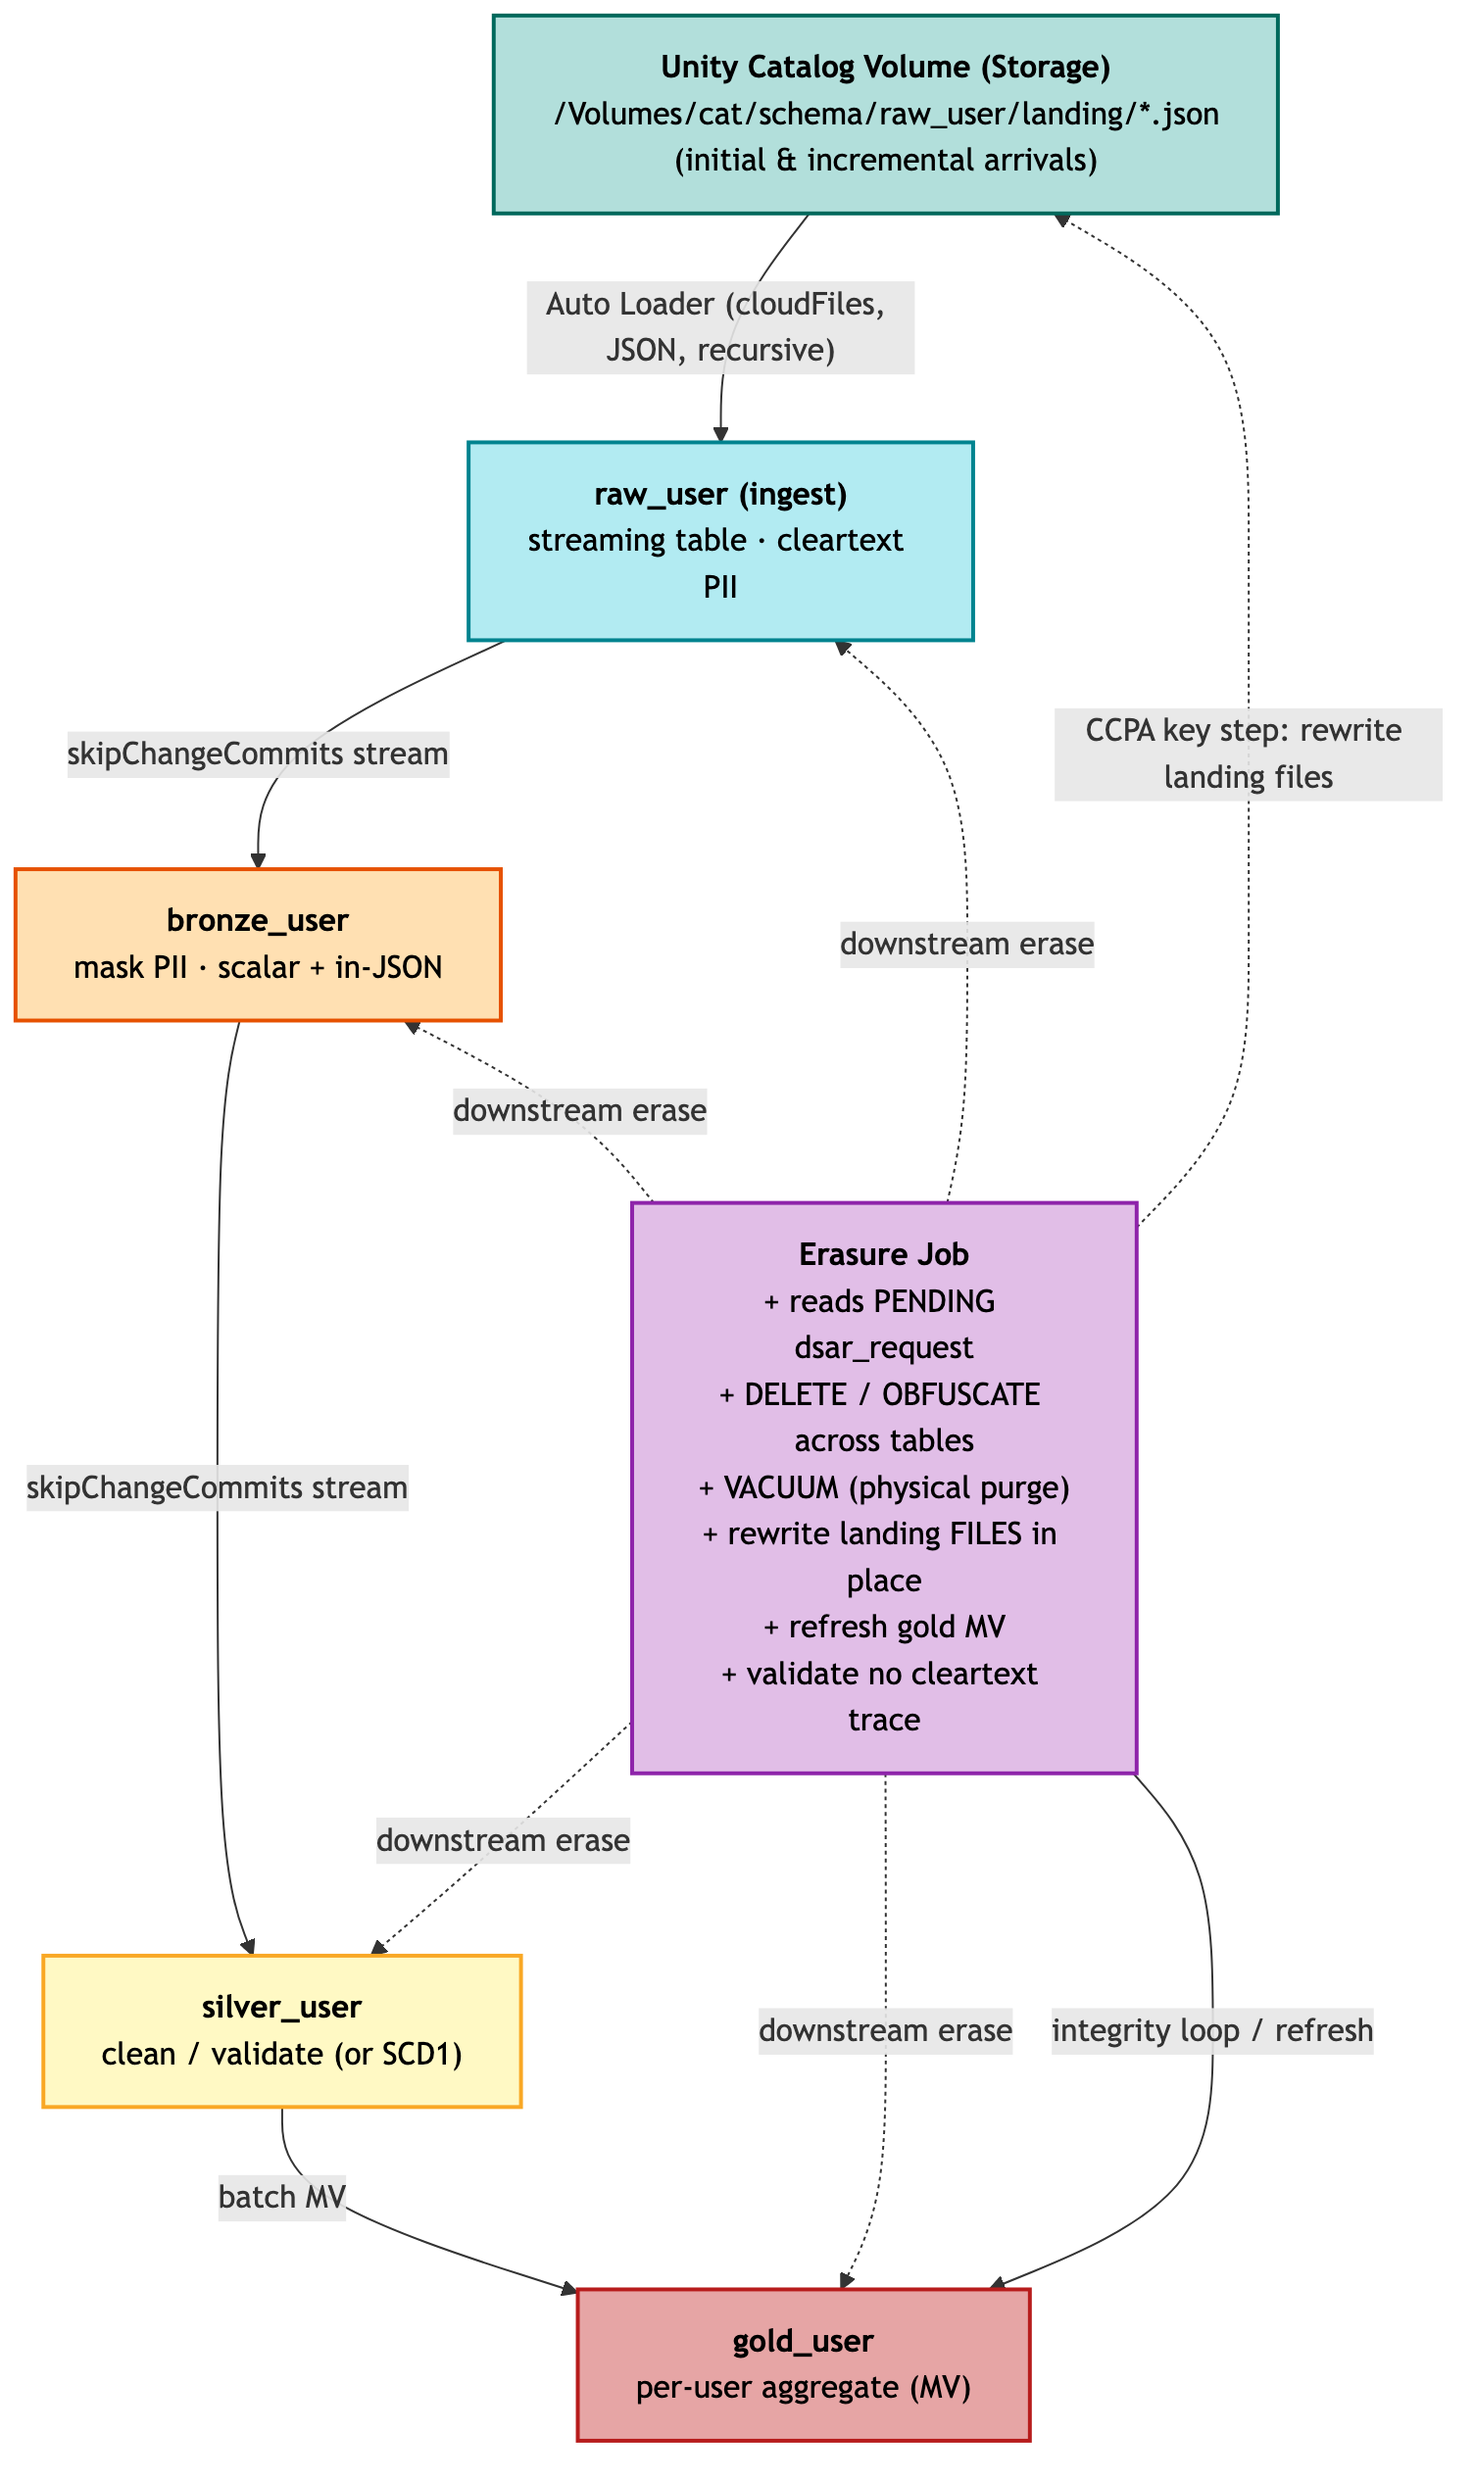
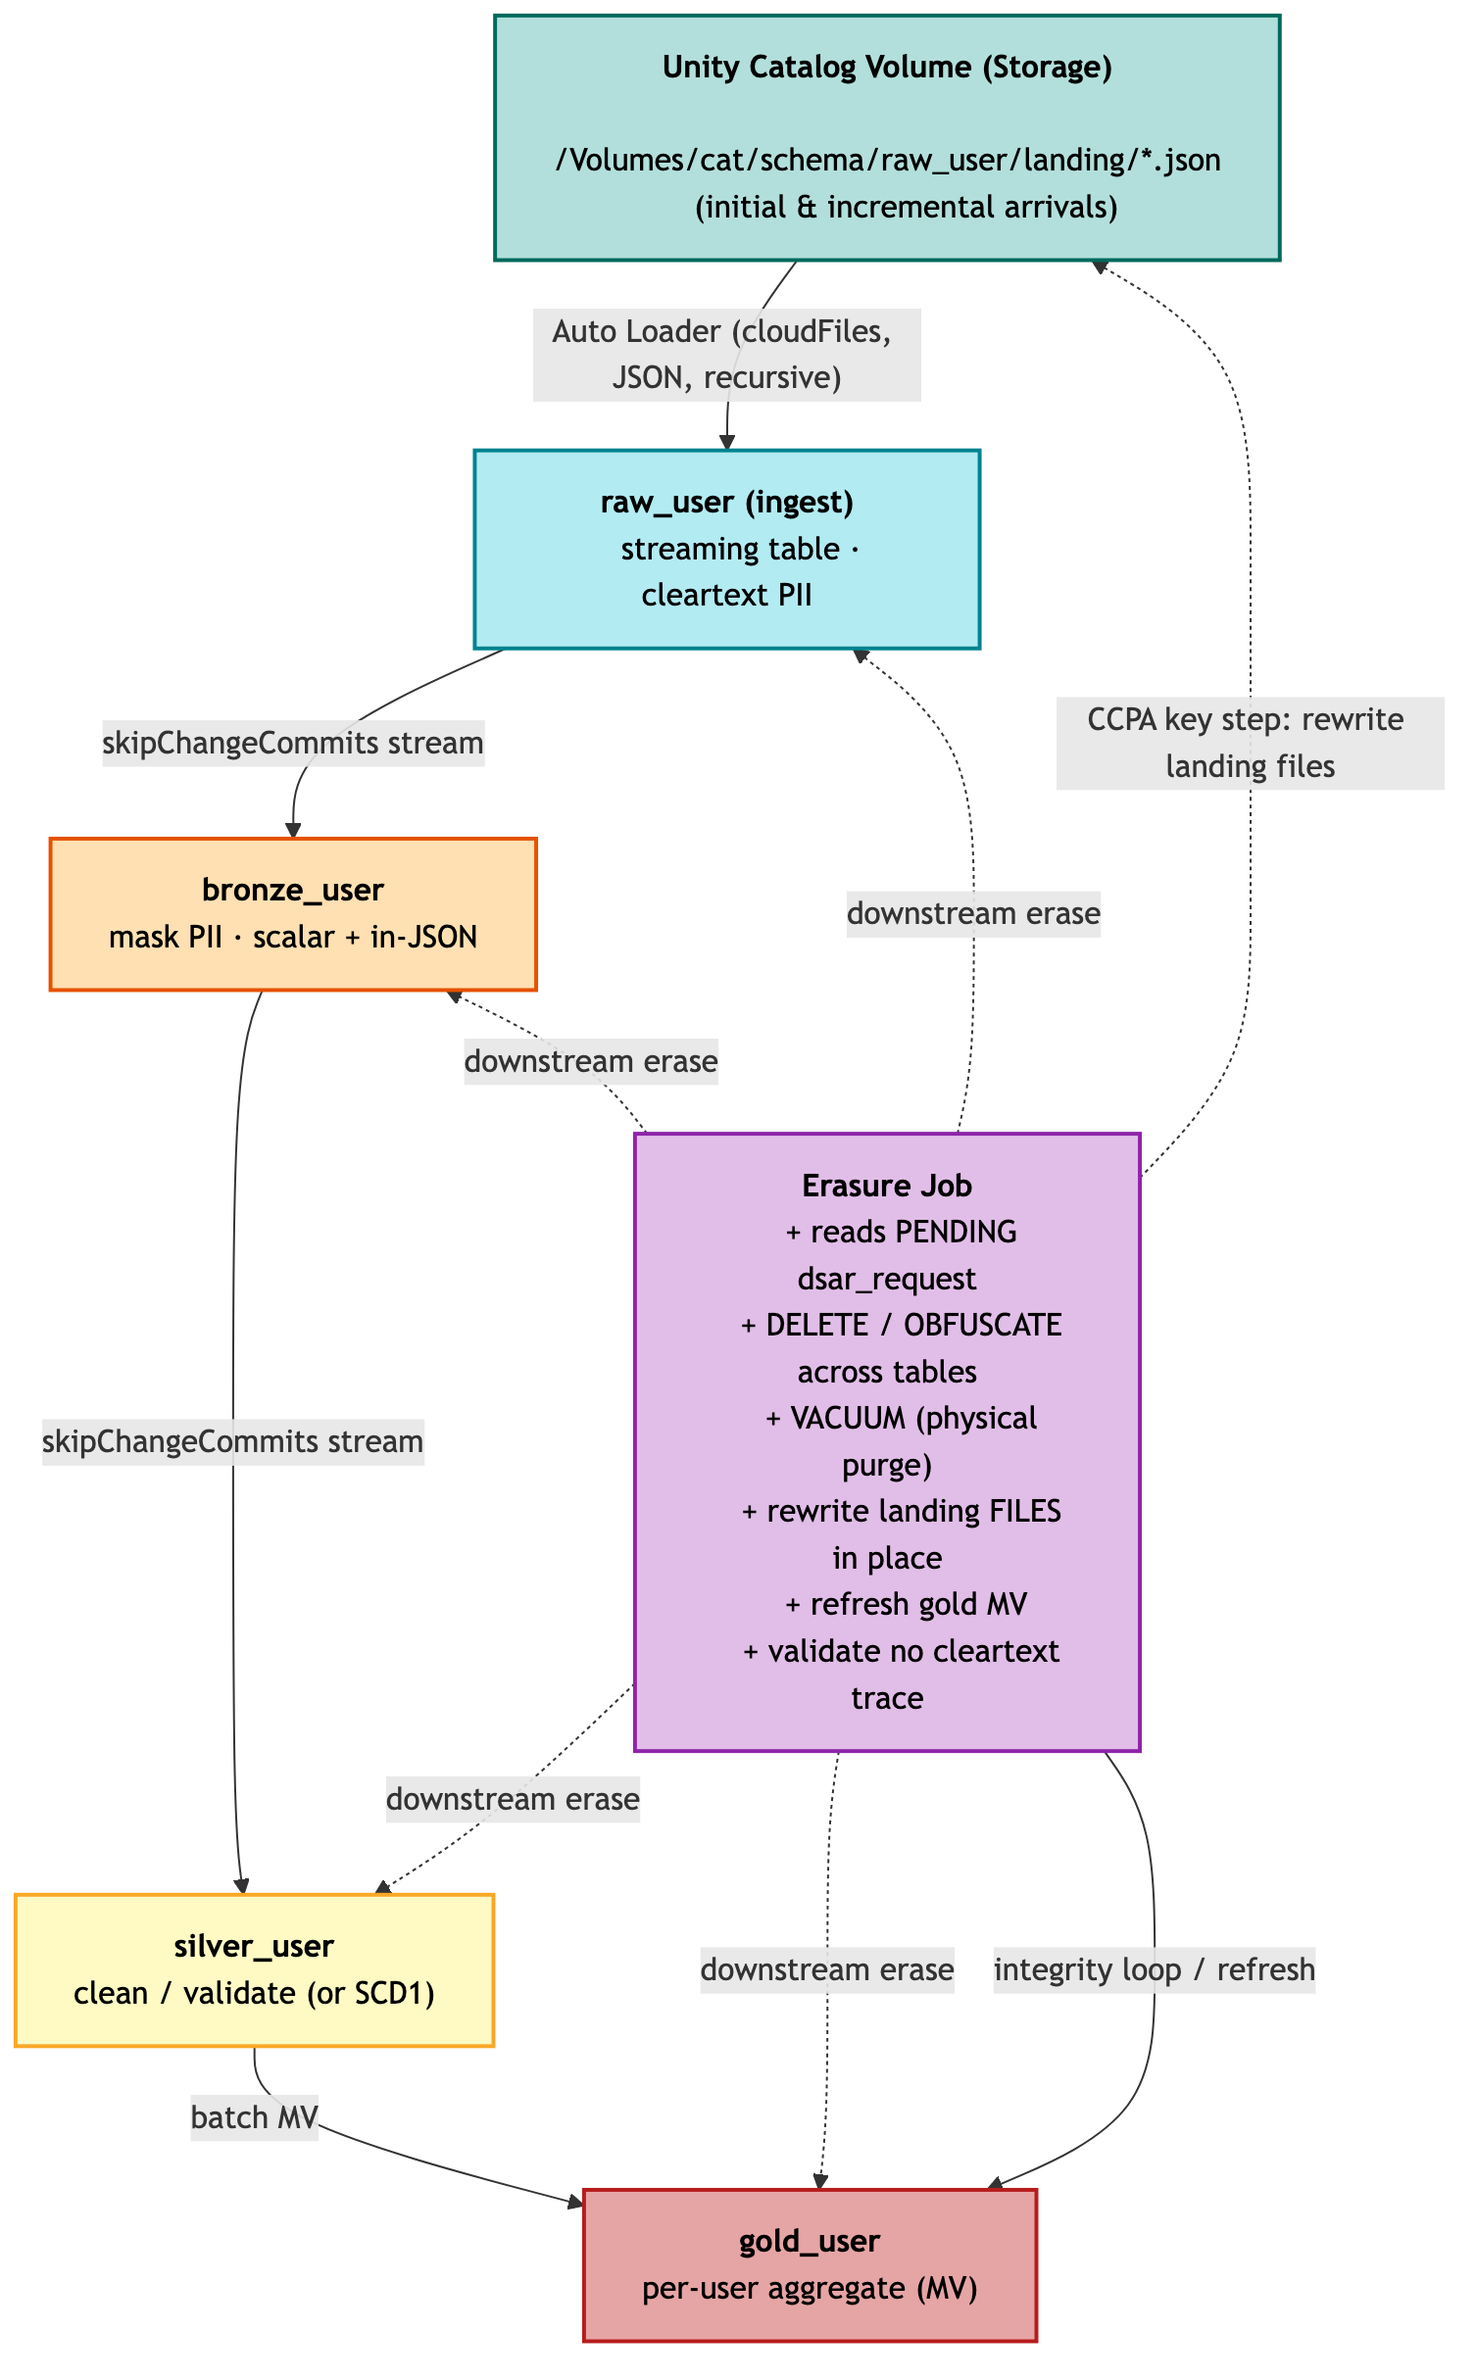
docs(dsar-sdp): inline the architecture Mermaid in README (zoom/pan) + no label clipping
GitHub only shows zoom/pan controls for inline mermaid blocks, not static images.
Inline the diagram in the README so it's zoomable, and drop htmlLabels (use SVG
text) so GitHub sizes boxes to the text and nothing clips. architecture.mmd/.png
kept in sync as a static copy.

diff --git a/allegiant-json-pii-masking/dsar_erasure/sdp_integration/README.md b/allegiant-json-pii-masking/dsar_erasure/sdp_integration/README.md
@@ -13,10 +13,51 @@ Lakeflow Declarative Pipelines Python API: `from pyspark import pipelines as dp`
 
 ## End-to-end architecture & data flow
 
-![End-to-end architecture & data flow](architecture.png)
+```mermaid
+flowchart TB
+    classDef storage fill:#b2dfdb,stroke:#00695c,stroke-width:2px,color:#000
+    classDef raw fill:#b2ebf2,stroke:#00838f,stroke-width:2px,color:#000
+    classDef bronze fill:#ffe0b2,stroke:#e65100,stroke-width:2px,color:#000
+    classDef silver fill:#fff9c4,stroke:#f9a825,stroke-width:2px,color:#000
+    classDef gold fill:#e6a5a5,stroke:#b71c1c,stroke-width:2px,color:#000
+    classDef erasure fill:#e1bee7,stroke:#8e24aa,stroke-width:2px,color:#000
 
-<sub>Diagram source: [`architecture.mmd`](architecture.mmd) (Mermaid). Re-render with
-`mmdc -i architecture.mmd -o architecture.png -b white -s 2`.</sub>
+    UCV["<b>Unity Catalog Volume (Storage)</b>
+    /Volumes/cat/schema/raw_user/landing/*.json
+    (initial & incremental arrivals)"]:::storage
+    Raw["<b>raw_user (ingest)</b>
+    streaming table · cleartext PII"]:::raw
+    Bronze["<b>bronze_user</b>
+    mask PII · scalar + in-JSON"]:::bronze
+    Silver["<b>silver_user</b>
+    clean / validate (or SCD1)"]:::silver
+    Gold["<b>gold_user</b>
+    per-user aggregate (MV)"]:::gold
+    Erasure["<b>Erasure Job</b>
+    + reads PENDING dsar_request
+    + DELETE / OBFUSCATE across tables
+    + VACUUM (physical purge)
+    + rewrite landing FILES in place
+    + refresh gold MV
+    + validate no cleartext trace"]:::erasure
+
+    UCV -->|"Auto Loader (cloudFiles, JSON, recursive)"| Raw
+    Raw -->|"skipChangeCommits stream"| Bronze
+    Bronze -->|"skipChangeCommits stream"| Silver
+    Silver -->|"batch MV"| Gold
+
+    Bronze ~~~ Erasure
+    Erasure -.->|"downstream erase"| Raw
+    Erasure -.->|"downstream erase"| Bronze
+    Erasure -.->|"downstream erase"| Silver
+    Erasure -.->|"downstream erase"| Gold
+    Erasure -->|"integrity loop / refresh"| Gold
+    Erasure -.->|"CCPA key step: rewrite landing files"| UCV
+```
+
+<sub>Rendered inline (GitHub gives zoom/pan controls). A static copy —
+[`architecture.png`](architecture.png) — and the source [`architecture.mmd`](architecture.mmd)
+are kept in sync; re-render with `mmdc -i architecture.mmd -o architecture.png -b white -s 2`.</sub>
 
 > **Erasure removes the subject from the tables AND the source files.** `DELETE`/`VACUUM`
 > permanently purges the base tables; the landing files are rewritten in place (drop
